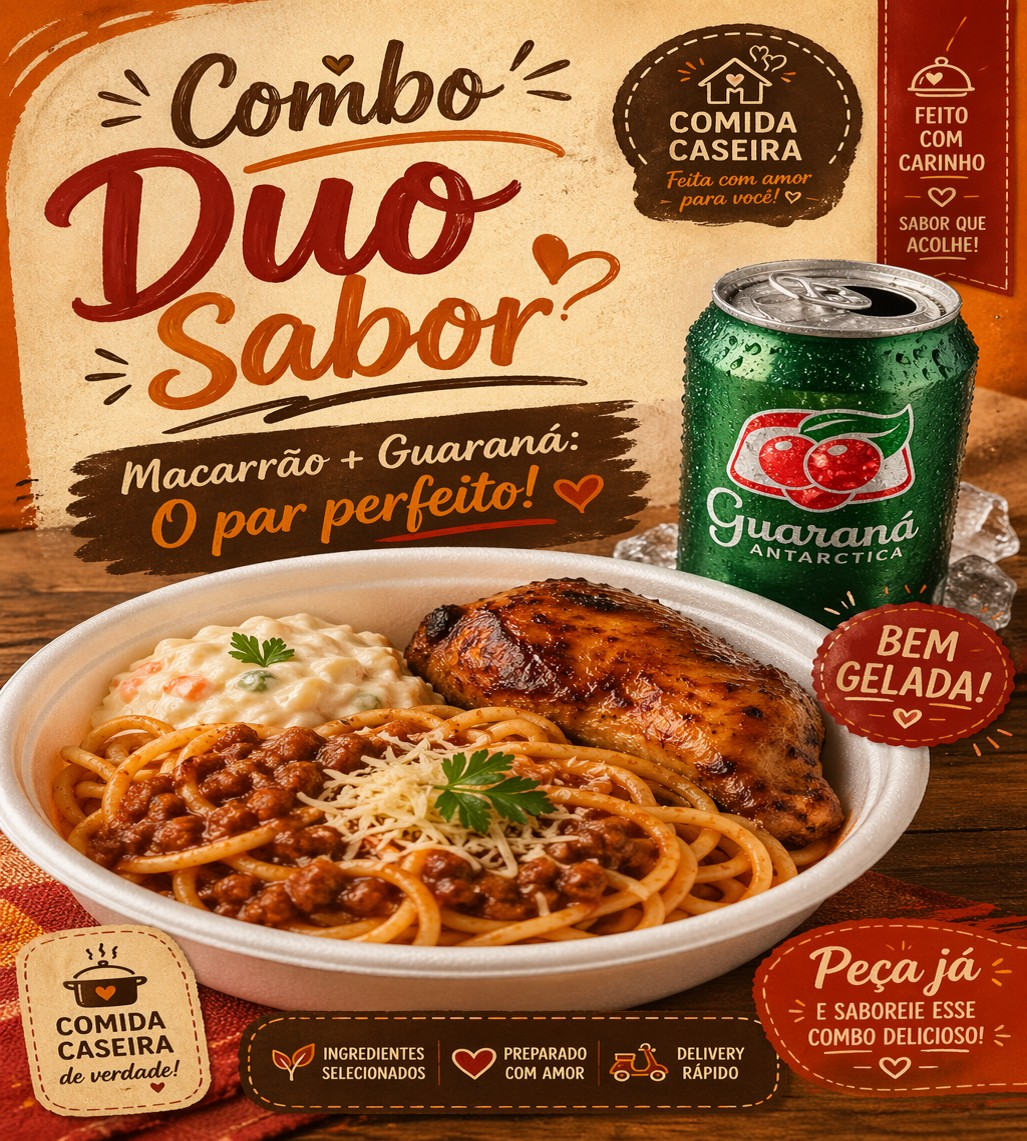
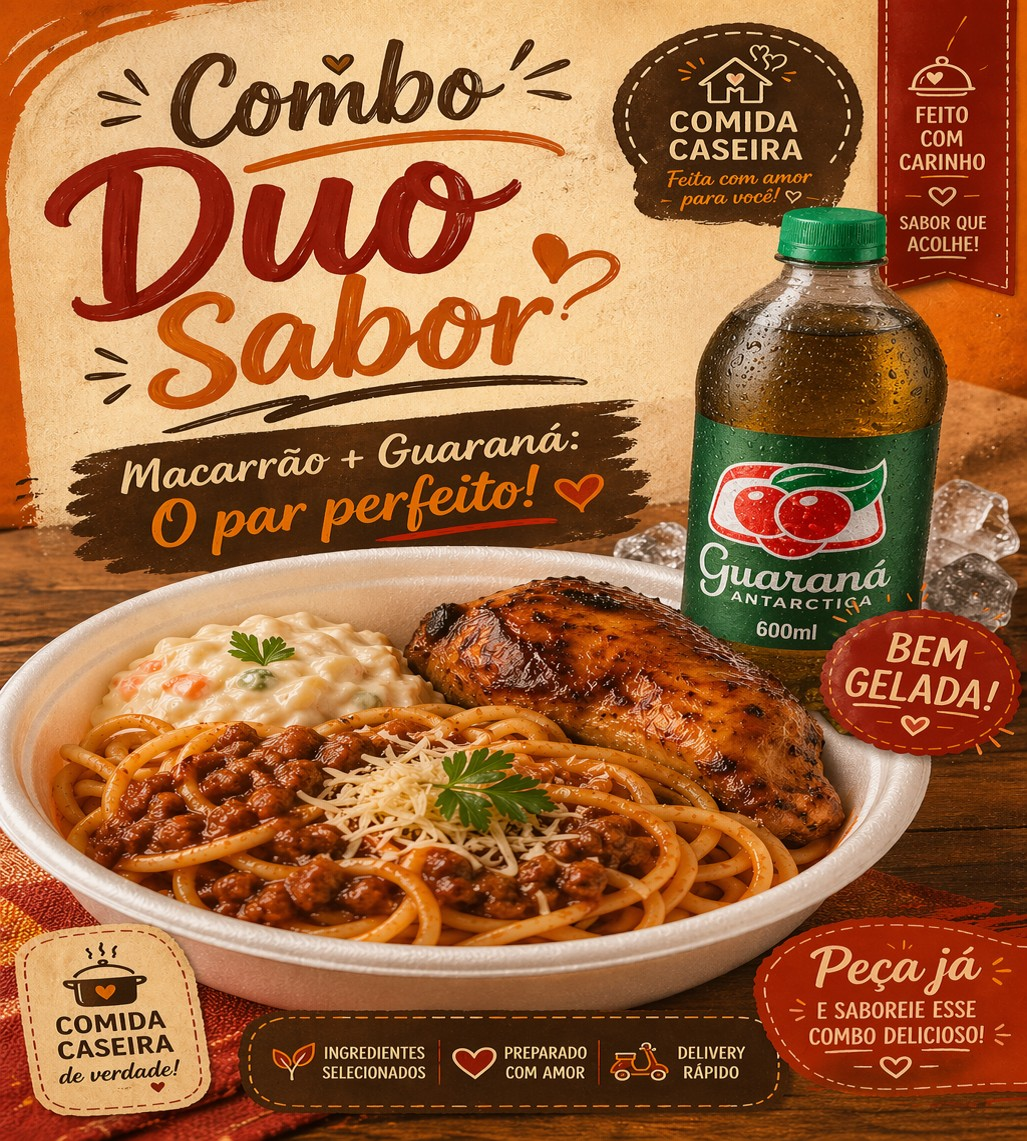
add pratos

diff --git a/client/src/lib/products.ts b/client/src/lib/products.ts
@@ -132,7 +132,7 @@ export const products: Product[] = [
   },
   {
     id: 'Macarrão ao molho + Guaraná',
-    name: 'Combo Duo Sabor - Macarrão + Guaraná: O par perfeito!',
+    name: 'Combo Duo Sabor - Macarrão + Guaraná 600ml: O par perfeito!',
     description: 'Macarrão ao molho caseiro com carne bem temperada, acompanhado de frango assado suculento e salada de maionese caseira. além é claro do delicioso Guaraná geladinho',
     price: 31.50,
     category: 'marmitas-trad',
